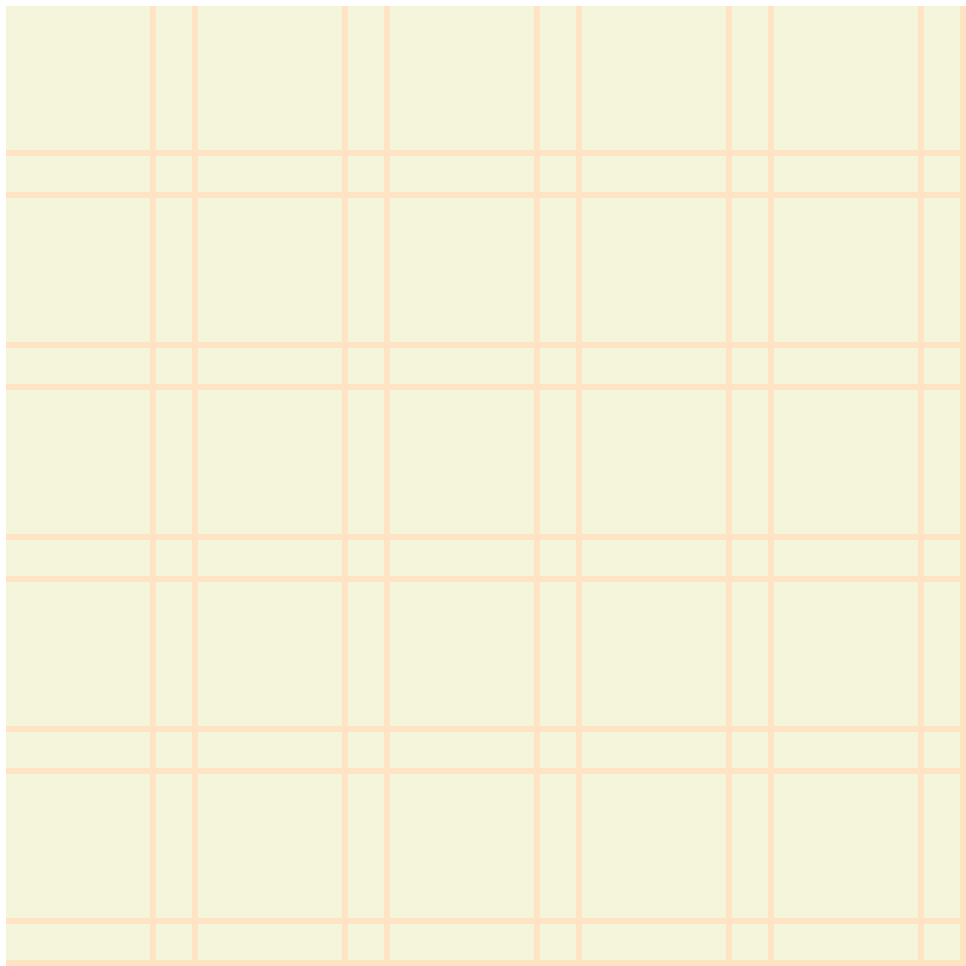
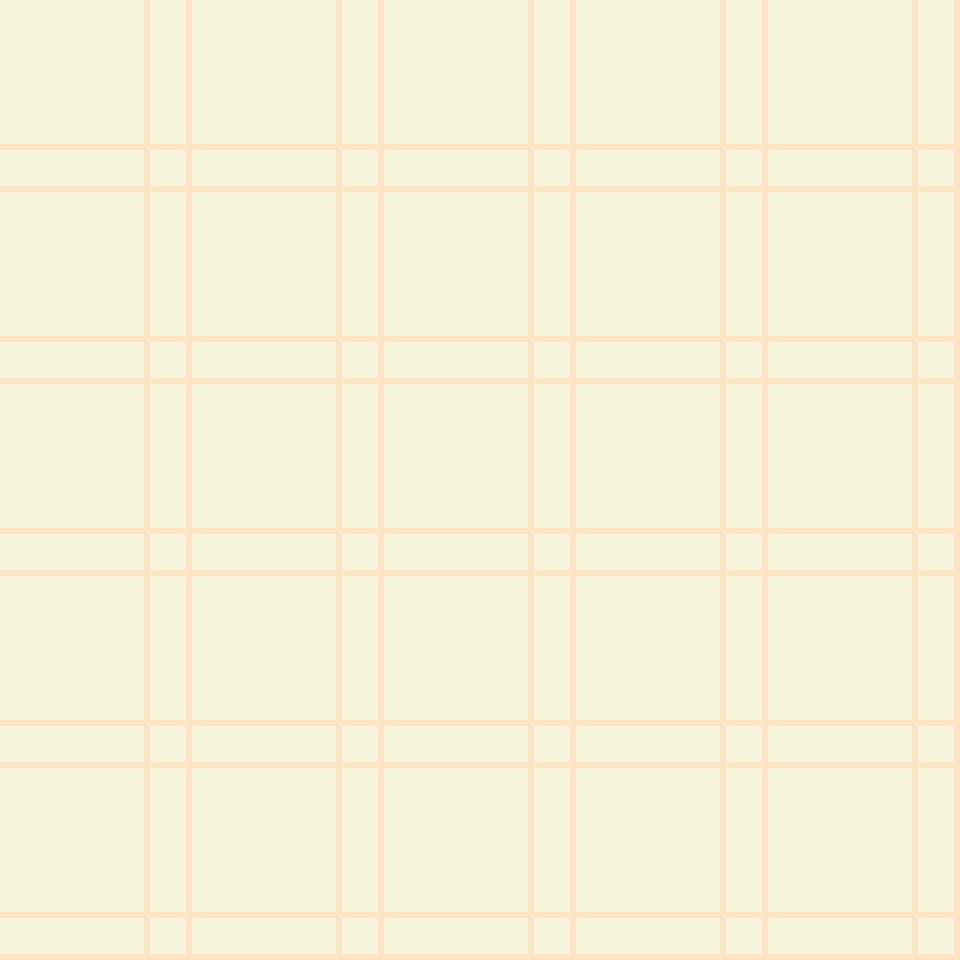
Tile size fix.

Changed region(s): [[0.0, 0.0, 1.0, 1.0]]

diff --git a/public/app/tile.js b/public/app/tile.js
@@ -102,6 +102,7 @@ class Tile {
   }
 
   deactivate_(start) {
+    if (!this.active_) return;
     this.containerElement_.removeChild(this.mapElement);
     this.imageElement_.style.visibility = 'visible';
     // this.containerElement_.style.filter = 'grayscale(1)';
@@ -125,8 +126,8 @@ class Tile {
     const imageFromTheme = this.getImageFromTheme_();
     if (imageFromTheme) {
       this.imageElement_.src = imageFromTheme;
-      this.imageElement_.width = 161;
-      this.imageElement_.height = 161;
+      this.imageElement_.width = 160;
+      this.imageElement_.height = 160;
       this.deactivate_(start);
       return;
     }

diff --git a/public/app/cell.js b/public/app/cell.js
@@ -469,9 +469,9 @@ class Cell {
           element == this.replicatedElements_.get(layer).get(replica.tile)) {
         // This element is a replica.
         baseOffsetRight +=
-            replica.horizontalTileDistance * (replica.tile.width - 1);
+            replica.horizontalTileDistance * replica.tile.width;
         baseOffsetBottom +=
-            replica.verticalTileDistance * (replica.tile.height - 1);
+            replica.verticalTileDistance * replica.tile.height;
         replica.tile.invalidate();
       }
     });

diff --git a/public/app/cell_map.js b/public/app/cell_map.js
@@ -178,7 +178,7 @@ class CellMap {
 
   createCell_(parent, role, key, row, column) {
     const tile = this.getOrCreateTile(parent, column, row);
-    tile.initializeDimensions(this.currX, this.currY);
+    tile.initializeDimensions(this.currX + 1, this.currY + 1);
     const element =
         createAndAppendDivWithClass(tile.gridLayer, `grid-cell ${role}-cell`);
     const cell = new Cell(key, role, element, tile);

diff --git a/public/app/menu.js b/public/app/menu.js
@@ -1812,7 +1812,7 @@ class Menu {
             text: '(1,1) tile img',
             enabledInReadonlyMode: true,
             callback: () => {
-              const dataUrl = state.theMap.tiles.get('1,1').imageElement.src;
+              const dataUrl = state.theMap.tiles.get('1,1').imageElement_.src;
               window.open().document.write('<img src="' + dataUrl + '"/>');
             },
           },

diff --git a/public/app/grid.css b/public/app/grid.css
@@ -49,7 +49,7 @@
   background-clip: padding-box;
   pointer-events: none;
   /* Clip to tile, including the drop-shadow effect. */
-  clip-path: polygon(0% 0%, 100% 0%, 100% 100%, 0% 100%);
+  clip-path: inset(0 0);
 }
 
 .widget-layer {
@@ -102,6 +102,7 @@
 
 .floors-layer {
   z-index: 1;
+  clip-path: none;
 }
 
 .grid-cell {
